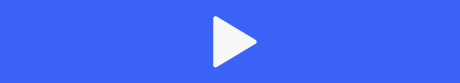
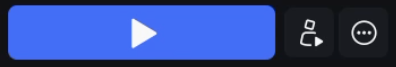
Harden play-button detection and add resource integrity logs

diff --git a/GameBot_windows.py b/GameBot_windows.py
@@ -133,6 +133,65 @@ class GameBot:
         if self.on_finished:
             self.on_finished(success, reason)
 
+    def _log_resource_integrity(self) -> None:
+        meipass = getattr(sys, "_MEIPASS", None)
+        packaged_mode = bool(meipass)
+        base_path = self._resource_dir
+
+        try:
+            base_exists = base_path.exists()
+            base_is_dir = base_path.is_dir()
+        except Exception:
+            base_exists = False
+            base_is_dir = False
+
+        self._emit_log(
+            "Resource check: "
+            f"base={base_path}, packaged_mode={packaged_mode}, "
+            f"exists={base_exists}, is_dir={base_is_dir}."
+        )
+
+        png_names: list[str] = []
+        if base_exists and base_is_dir:
+            try:
+                png_names = sorted(p.name for p in base_path.glob("*.png") if p.is_file())
+            except Exception:
+                png_names = []
+        self._emit_log(f"Resource check: discovered {len(png_names)} PNG file(s) in base path.")
+
+        required_templates = (
+            "play_button.png",
+            "index.png",
+            "index2.png",
+            "inventory.png",
+            "shuffle.png",
+            "ashgor_health.png",
+            "red_ashgor.png",
+            "radius.png",
+            "start_auto.png",
+        )
+        status_parts: list[str] = []
+        missing_templates: list[str] = []
+        for template_name in required_templates:
+            template_path = base_path / template_name
+            exists = template_path.exists()
+            if exists:
+                try:
+                    size_bytes = template_path.stat().st_size
+                    status_parts.append(f"{template_name}=OK({size_bytes}B)")
+                except Exception:
+                    status_parts.append(f"{template_name}=OK")
+            else:
+                status_parts.append(f"{template_name}=MISSING")
+                missing_templates.append(template_name)
+
+        self._emit_log("Resource check: " + ", ".join(status_parts))
+        if missing_templates:
+            self._emit_log(
+                "Resource check warning: missing templates detected: "
+                + ", ".join(missing_templates)
+            )
+
     def _configure_runtime_timing(self) -> None:
         if pyautogui is None or self._runtime_timing_tuned:
             return
@@ -817,7 +876,12 @@ class GameBot:
             except Exception as exc:
                 self._emit_log(f"Failed debug hover at ({cx}, {cy}): {exc}")
 
-    def _locate_blue_play_button_center(self, region):
+    def _locate_blue_play_button_center(
+        self,
+        region,
+        template_path: Optional[Path] = None,
+        min_template_similarity: float = 0.44,
+    ):
         # Last-resort heuristic for Roblox Play: a wide saturated blue button with small white content.
         if pyautogui is None or cv2 is None or np is None:
             return None
@@ -852,6 +916,14 @@ class GameBot:
         if frame_rgb.size == 0:
             return None
 
+        template_gray = None
+        if template_path is not None and template_path.exists() and Image is not None:
+            try:
+                with Image.open(template_path) as template_src:
+                    template_gray = np.array(template_src.convert("L"))
+            except Exception:
+                template_gray = None
+
         try:
             frame_hsv = cv2.cvtColor(frame_rgb, cv2.COLOR_RGB2HSV)
             blue_mask = cv2.inRange(frame_hsv, (90, 70, 70), (135, 255, 255))
@@ -866,7 +938,7 @@ class GameBot:
         if not contours:
             return None
 
-        best: Optional[tuple[float, float, float, int, int, float, float]] = None
+        best: Optional[tuple[float, float, float, int, int, float, float, float]] = None
         center_x_hay = hay_w / 2.0
         center_y_hay = hay_h / 2.0
 
@@ -876,11 +948,11 @@ class GameBot:
                 continue
 
             x, y, w, h = cv2.boundingRect(contour)
-            if w < 80 or h < 24 or h > 180:
+            if w < 140 or h < 24 or h > 170:
                 continue
 
             ratio = w / max(float(h), 1.0)
-            if ratio < 2.0 or ratio > 10.0:
+            if ratio < 2.0 or ratio > 8.5:
                 continue
 
             fill_ratio = area / max(float(w * h), 1.0)
@@ -896,33 +968,54 @@ class GameBot:
             if white_ratio < 0.01 or white_ratio > 0.60:
                 continue
 
+            template_similarity = 0.0
+            if template_gray is not None and template_gray.size > 0:
+                try:
+                    interpolation = cv2.INTER_AREA
+                    if w > template_gray.shape[1] or h > template_gray.shape[0]:
+                        interpolation = cv2.INTER_CUBIC
+                    resized_template = cv2.resize(template_gray, (w, h), interpolation=interpolation)
+                    roi_gray = cv2.cvtColor(roi, cv2.COLOR_RGB2GRAY)
+                    sim_map = cv2.matchTemplate(
+                        roi_gray,
+                        resized_template,
+                        cv2.TM_CCOEFF_NORMED,
+                    )
+                    template_similarity = float(sim_map.max()) if sim_map.size else -1.0
+                except Exception:
+                    template_similarity = -1.0
+                if template_similarity < min_template_similarity:
+                    continue
+
             cx = float(x) + (float(w) / 2.0)
             cy = float(y) + (float(h) / 2.0)
             center_distance = abs(cx - center_x_hay) + abs(cy - center_y_hay)
-            score = area - (center_distance * 1.8)
+            score = area - (center_distance * 1.8) + (template_similarity * 40_000.0)
 
             if best is None or score > best[0]:
-                best = (score, cx, cy, w, h, white_ratio, area)
+                best = (score, cx, cy, w, h, white_ratio, area, template_similarity)
 
         if best is None:
             return None
 
-        _, cx, cy, w, h, white_ratio, area = best
+        _, cx, cy, w, h, white_ratio, area, template_similarity = best
         center_region_x = int(cx / max(scale_x, 1e-9))
         center_region_y = int(cy / max(scale_y, 1e-9))
         click_x = rx + center_region_x
         click_y = ry + center_region_y
         self._emit_log(
             "Blue-play fallback candidate: "
-            f"pos=({click_x}, {click_y}), size={w}x{h}, area={area:.0f}, white_ratio={white_ratio:.3f}."
+            f"pos=({click_x}, {click_y}), size={w}x{h}, area={area:.0f}, "
+            f"white_ratio={white_ratio:.3f}, template_similarity={template_similarity:.3f}."
         )
         return click_x, click_y
 
-    def _click_play_button_at(self, click_x: int, click_y: int, source: str) -> bool:
+    def _click_play_button_at(self, click_x: int, click_y: int, source: str, cache: bool = True) -> bool:
         click_x = int(click_x)
         click_y = int(click_y)
         if self.settings.dry_run:
-            self._click_point_cache["play_button.png"] = (click_x, click_y)
+            if cache:
+                self._click_point_cache["play_button.png"] = (click_x, click_y)
             self._emit_log(
                 f"Dry-run: would click play button at ({click_x}, {click_y}) using {source}."
             )
@@ -930,8 +1023,9 @@ class GameBot:
 
         try:
             pyautogui.click(click_x, click_y)
-            self._click_point_cache["play_button.png"] = (click_x, click_y)
-            self._emit_log(f"Cached click position for play_button.png at ({click_x}, {click_y}).")
+            if cache:
+                self._click_point_cache["play_button.png"] = (click_x, click_y)
+                self._emit_log(f"Cached click position for play_button.png at ({click_x}, {click_y}).")
             self._emit_log(f"Clicked play button at ({click_x}, {click_y}) using {source}.")
             return True
         except Exception as exc:
@@ -1317,14 +1411,22 @@ class GameBot:
             self._emit_log(f"Template not found: {template_path}")
             return False
 
-        base_region = self._get_play_style_region()
-        timeout_seconds = 12.0
-        confidence_steps = [0.92, 0.9, 0.88, 0.85, 0.82, 0.78]
-        scale_steps = [1.0, 0.95, 1.05, 0.9, 1.1, 0.85, 1.15, 0.8, 1.25, 0.75, 1.35]
+        timeout_seconds = 14.0
+        confidence_steps = [0.92, 0.9, 0.88, 0.85, 0.82, 0.78, 0.74, 0.7]
+        scale_steps = [1.0, 0.95, 1.05, 0.9, 1.1, 0.85, 1.15, 0.8, 1.25, 0.75, 1.35, 1.5]
+
+        search_targets: list[tuple[str, Optional[tuple[int, int, int, int]]]] = []
+        roblox_region = self._get_roblox_region()
+        if roblox_region is not None:
+            search_targets.append(("Roblox window", roblox_region))
+        google_region = self._get_google_region()
+        if google_region is not None and google_region != roblox_region:
+            search_targets.append(("Google Chrome window", google_region))
+        search_targets.append(("full screen", None))
 
         self._emit_log(
             f"Looking for {template_path.name} with robust scan (up to {timeout_seconds:.1f}s)..."
-            + (f" (region={base_region})" if base_region else " (full screen)")
+            + (" targets: " + ", ".join(label for label, _ in search_targets))
         )
 
         started_at = time.perf_counter()
@@ -1335,12 +1437,8 @@ class GameBot:
                 break
 
             attempt += 1
-            search_regions = [base_region]
-            if base_region is not None and attempt >= 3:
-                search_regions.append(None)
 
-            for region in search_regions:
-                region_label = f"region={region}" if region is not None else "full screen"
+            for region_label, region in search_targets:
 
                 for grayscale_first in (True, False):
                     for conf in confidence_steps:
@@ -1375,11 +1473,47 @@ class GameBot:
                     if self._click_play_button_at(click_x, click_y, "multiscale template scan"):
                         return True
 
-                blue_coords = self._locate_blue_play_button_center(region=region)
-                if blue_coords is not None:
+                if attempt >= 4:
+                    blue_coords = self._locate_blue_play_button_center(
+                        region=region,
+                        template_path=template_path,
+                        min_template_similarity=0.44,
+                    )
+                    if blue_coords is None:
+                        continue
+
                     click_x, click_y = blue_coords
-                    if self._click_play_button_at(click_x, click_y, "blue-button fallback"):
-                        return True
+                    if not self._click_play_button_at(
+                        click_x,
+                        click_y,
+                        "blue-button fallback",
+                        cache=False,
+                    ):
+                        continue
+
+                    # Fallback guard: if the same blue candidate remains immediately after click,
+                    # treat it as unconfirmed and keep searching.
+                    if not self._sleep_interruptible(1.0):
+                        return False
+                    post_click_blue = self._locate_blue_play_button_center(
+                        region=region,
+                        template_path=template_path,
+                        min_template_similarity=0.44,
+                    )
+                    if post_click_blue is not None:
+                        post_x, post_y = post_click_blue
+                        if abs(post_x - click_x) <= 45 and abs(post_y - click_y) <= 45:
+                            self._emit_log(
+                                "Blue fallback remained visible after click; candidate not confirmed. "
+                                "Continuing scan..."
+                            )
+                            continue
+
+                    self._click_point_cache["play_button.png"] = (click_x, click_y)
+                    self._emit_log(
+                        "Blue fallback changed after click; accepting candidate and continuing load wait."
+                    )
+                    return True
 
             if attempt in (1, 5, 10):
                 self._emit_log(
@@ -1422,6 +1556,7 @@ class GameBot:
             if self.settings.auto_focus:
                 self._emit_log("Auto-focus enabled.")
             self._emit_log("Image detection enabled.")
+            self._log_resource_integrity()
             if self.settings.safety_checks:
                 self._emit_log("Safety checks enabled.")
             if self.settings.runtime_limit_enabled:
